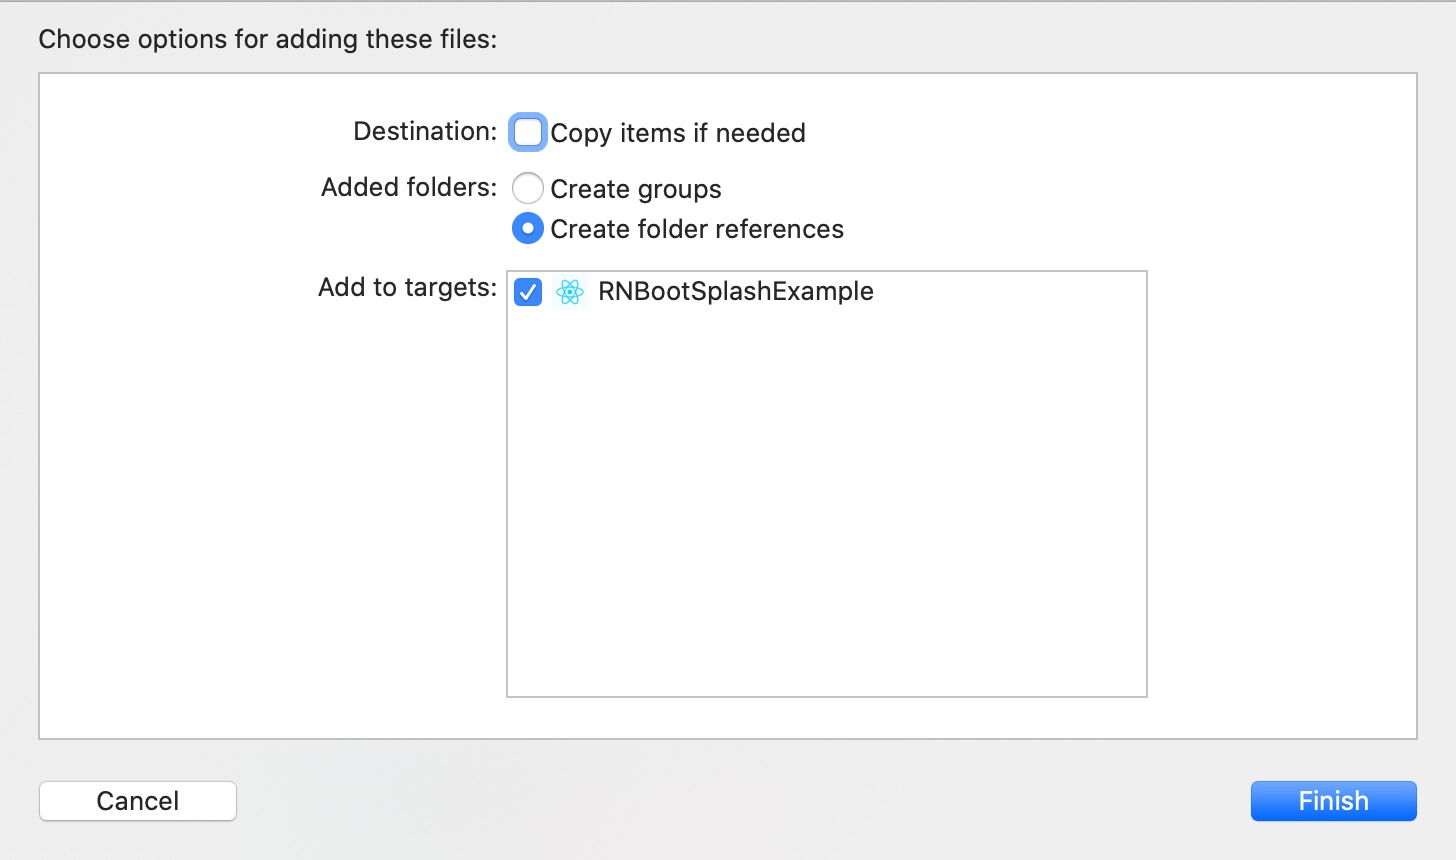
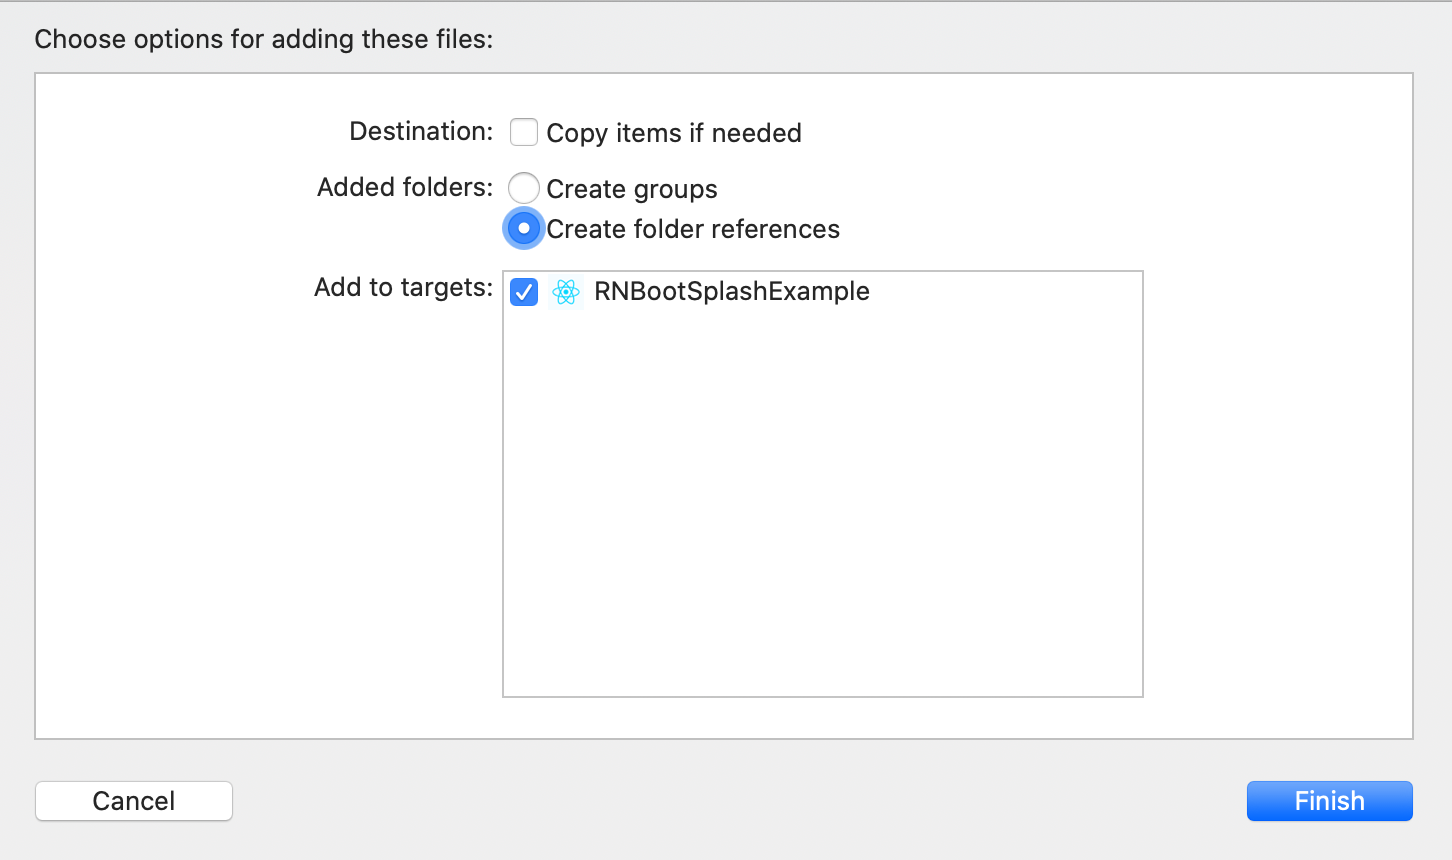
Add Xcode screenshots in README

diff --git a/README.md b/README.md
@@ -151,6 +151,12 @@ Edit the `ios/YourProjectName/AppDelegate.m` file:
 }
 ```
 
+Set the `Bootsplash.storyboard` as launch screen file:
+
+| Drag and drop the file                                                                                 | Create folder reference                                                                                | Set as Launch Screen File                                                                              |
+| ------------------------------------------------------------------------------------------------------ | ------------------------------------------------------------------------------------------------------ | ------------------------------------------------------------------------------------------------------ |
+| ![](https://raw.githubusercontent.com/zoontek/react-native-bootsplash/2.0.0/docs/xcode-1.png?raw=true) | ![](https://raw.githubusercontent.com/zoontek/react-native-bootsplash/2.0.0/docs/xcode-2.png?raw=true) | ![](https://raw.githubusercontent.com/zoontek/react-native-bootsplash/2.0.0/docs/xcode-3.png?raw=true) |
+
 ### Android
 
 1. Edit the `android/app/src/main/java/com/yourprojectname/MainActivity.java` file:
